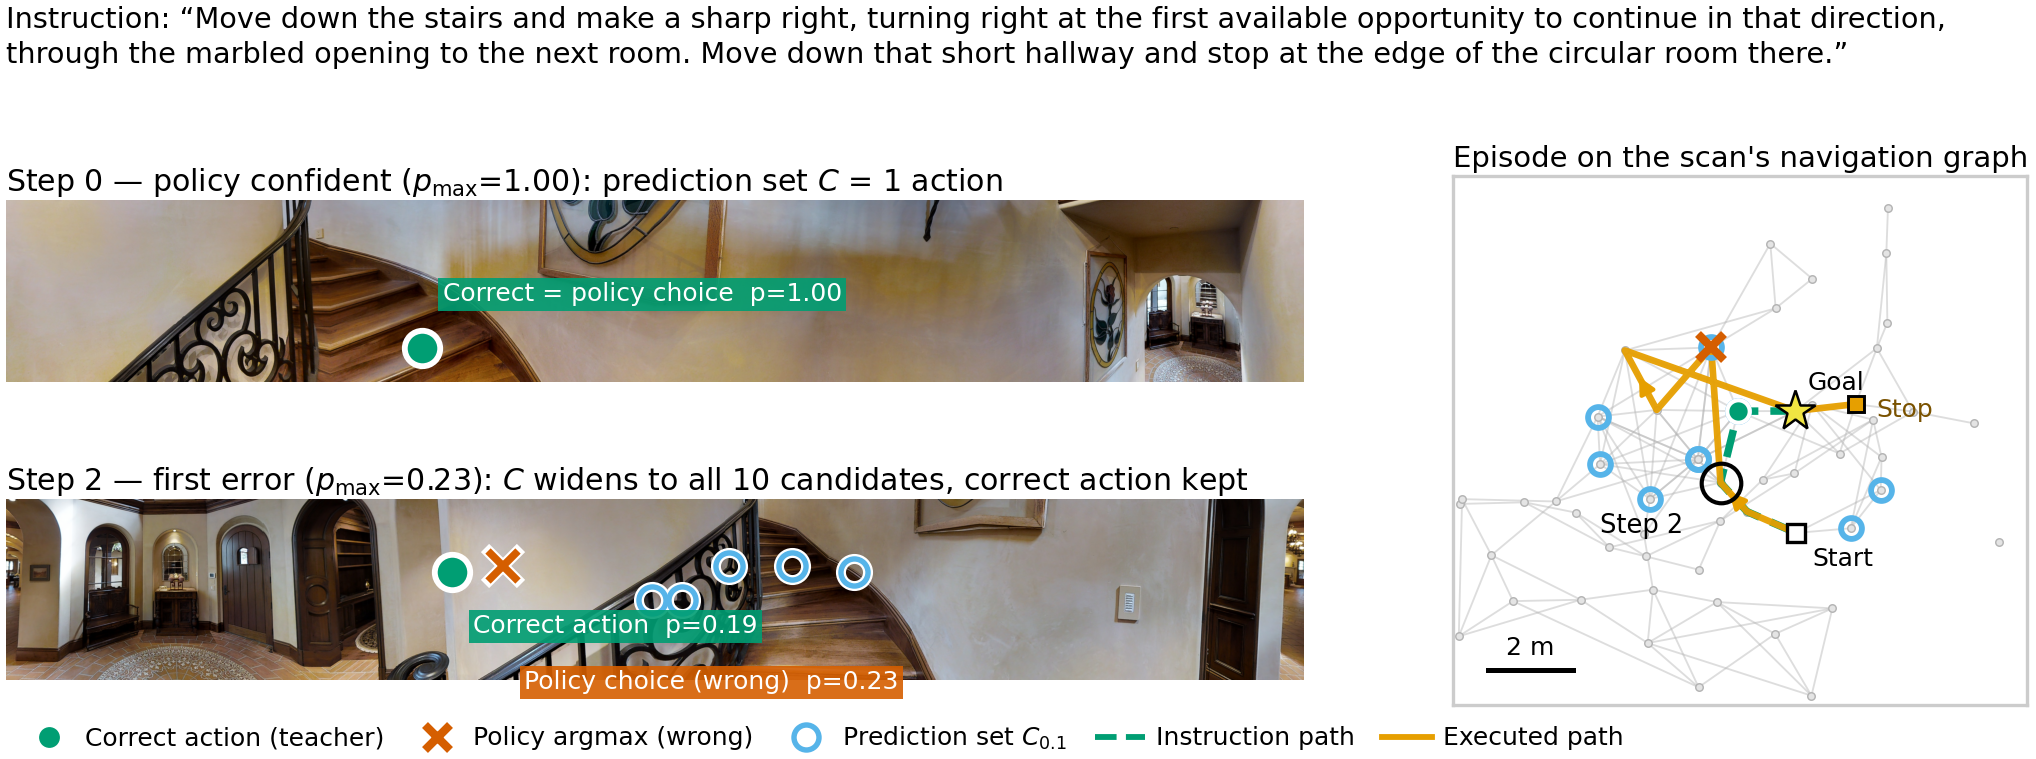
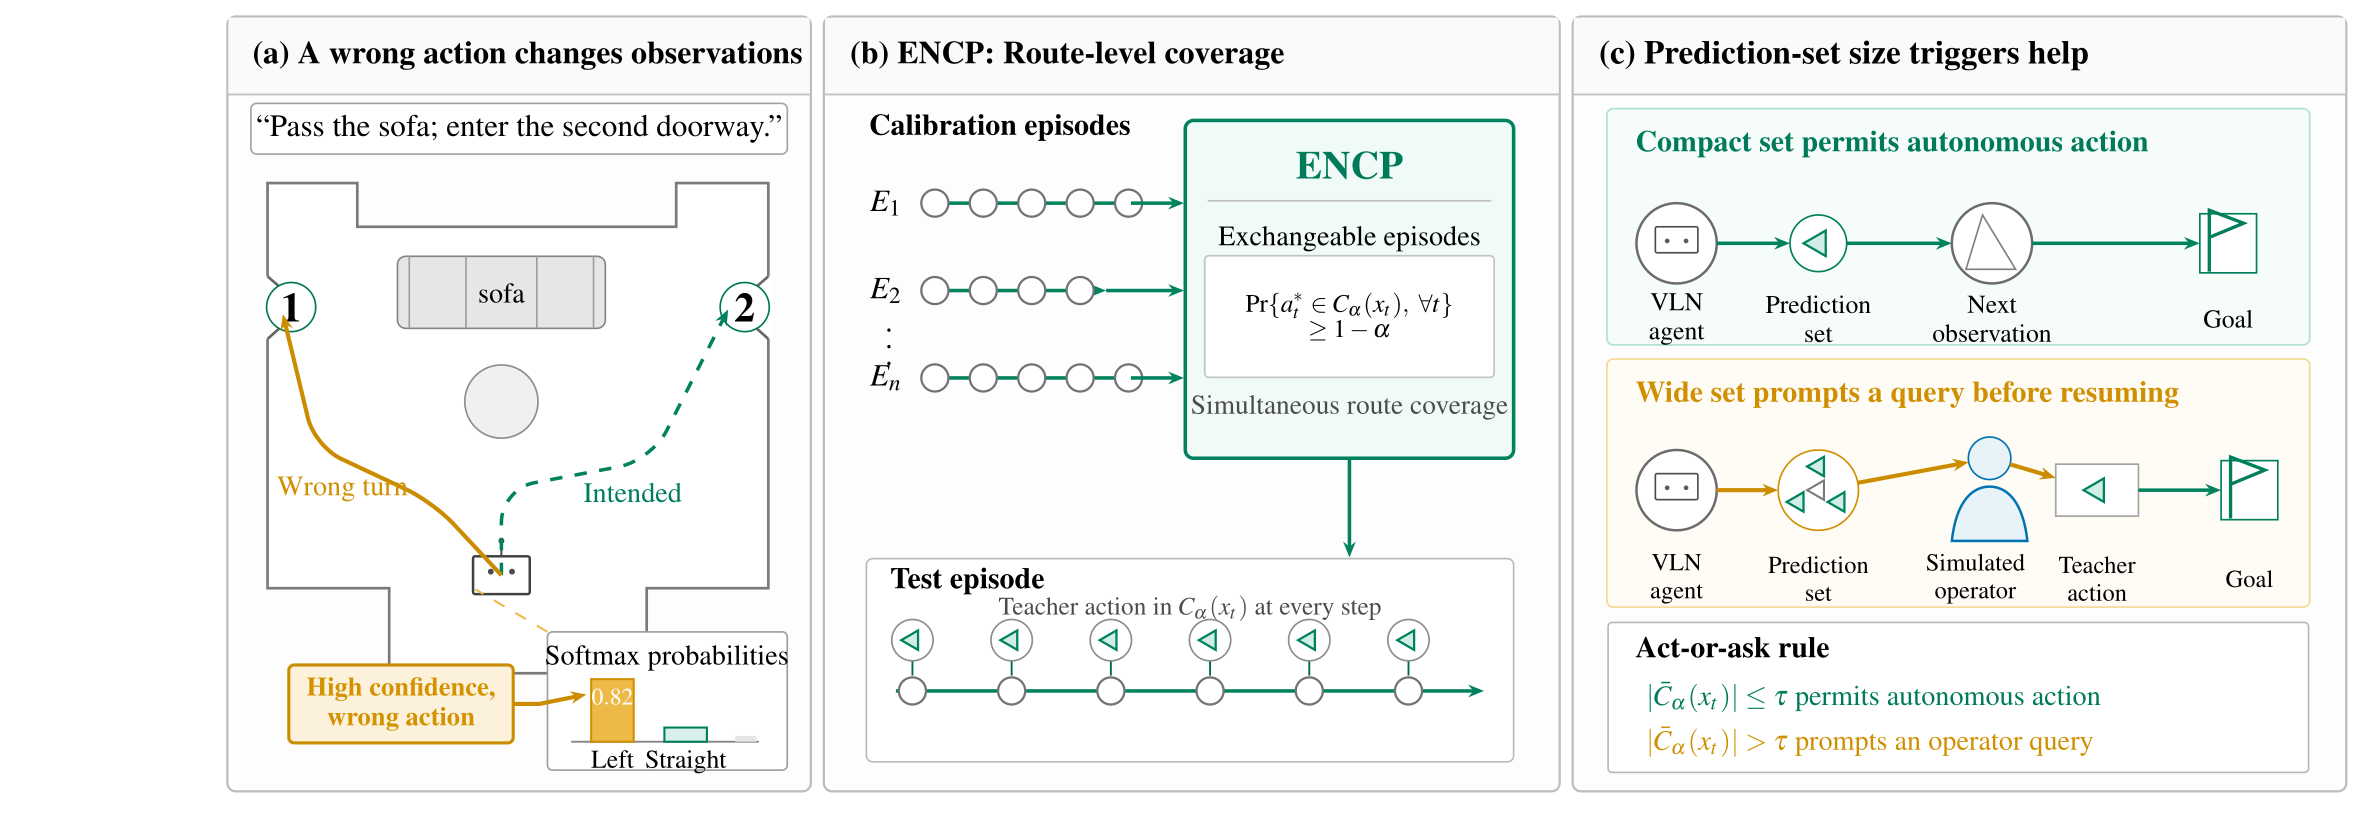
Use current paper figures on ENCP page

diff --git a/css/encp-vln.css b/css/encp-vln.css
@@ -17,20 +17,6 @@
   text-align: center;
 }
 
-.encp-kicker {
-  display: flex;
-  align-items: center;
-  justify-content: center;
-  gap: 0.55rem;
-  margin: 0 0 1.2rem;
-  color: var(--encp-teal);
-  font-family: "Space Grotesk", sans-serif;
-  font-size: 0.76rem;
-  font-weight: 700;
-  letter-spacing: 0.15em;
-  text-transform: uppercase;
-}
-
 .encp-hero h1 {
   max-width: 20ch;
   margin: 0 auto;
@@ -161,11 +147,6 @@
   font-size: 0.86rem;
   line-height: 1.6;
   text-align: center;
-}
-
-.encp-figure figcaption strong {
-  color: var(--encp-ink);
-  font-family: inherit;
 }
 
 .encp-teaser {

diff --git a/_pages/encp-vln.md b/_pages/encp-vln.md
@@ -9,7 +9,6 @@ extra_css: /css/encp-vln.css
 
 <article class="encp-page">
   <header class="encp-hero" aria-labelledby="encp-title">
-    <p class="encp-kicker">Research preview <span aria-hidden="true">·</span> Vision-and-Language Navigation</p>
     <h1 id="encp-title"><span>ENCP:</span> Episode-Normalized Conformal Prediction for Vision-and-Language Navigation</h1>
 
     <div class="encp-authors" aria-label="Authors">
@@ -40,10 +39,10 @@ extra_css: /css/encp-vln.css
   <figure class="encp-figure encp-teaser">
     <div class="encp-figure-frame">
       <a class="encp-figure-link" href="/assets/img/encp-vln/fig-teaser.png" target="_blank" aria-label="Open the teaser figure at full resolution">
-        <img src="/assets/img/encp-vln/fig-teaser.png" width="2036" height="759" alt="A navigation episode showing the agent's confident first step, a later uncertain decision with a widened prediction set, and both planned and executed routes on the navigation graph.">
+        <img src="/assets/img/encp-vln/fig-teaser.png" width="2367" height="827" alt="Three-panel ENCP overview: a wrong action changes observations; episode calibration provides route-level coverage; prediction-set size triggers acting or asking for help.">
       </a>
     </div>
-    <figcaption><strong>ENCP identifies when a navigation agent should ask for help before an error compounds.</strong> It calibrates complete episodes and triggers a query when the action set exceeds a chosen size budget.</figcaption>
+    <figcaption>ENCP identifies when a navigation agent should ask for help before an error compounds. It calibrates complete episodes and triggers a query when the action set exceeds a chosen size budget.</figcaption>
   </figure>
 
   <section class="encp-section encp-abstract" aria-labelledby="encp-abstract-title">
@@ -64,10 +63,10 @@ extra_css: /css/encp-vln.css
       <figure class="encp-figure encp-pipeline">
         <div class="encp-figure-frame">
           <a class="encp-figure-link" href="/assets/img/encp-vln/fig-pipeline.png" target="_blank" aria-label="Open the ENCP pipeline figure at full resolution">
-            <img src="/assets/img/encp-vln/fig-pipeline.png" width="2308" height="776" loading="lazy" alt="ENCP pipeline: offline calibration normalizes scores and computes an episode-level quantile; at deployment, prediction-set size determines whether the agent acts or asks a human.">
+            <img src="/assets/img/encp-vln/fig-pipeline.png" width="2356" height="1261" loading="lazy" alt="Detailed ENCP pipeline showing offline calibration records, parameter-free and learning-based weights, shared episode-level calibration, and deployment with act-or-ask decisions.">
           </a>
         </div>
-        <figcaption><strong>ENCP calibrates one worst-step score per episode,</strong> then asks for help when the deployed set exceeds the operator's chosen size budget.</figcaption>
+        <figcaption>ENCP calibrates one worst-step score per episode, then asks for help when the deployed set exceeds τ.</figcaption>
       </figure>
     </div>
   </section>
